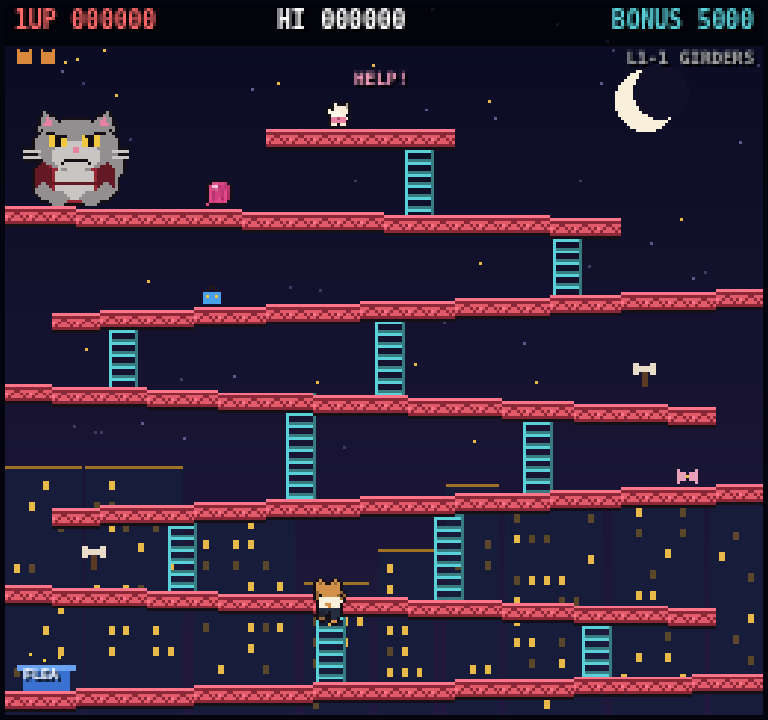
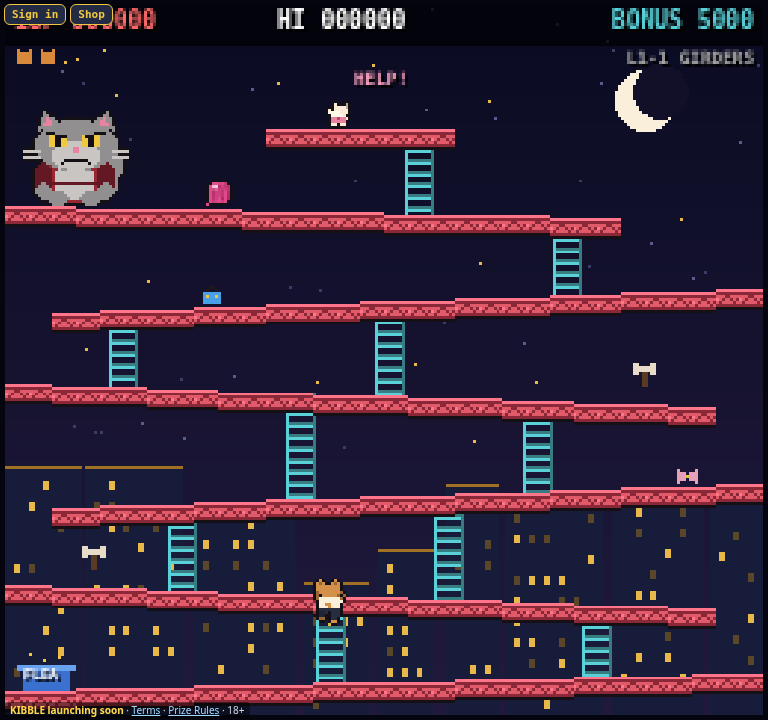
$KIBBLE: kibble-pay sign-in + shared shop (collars, rescue gear, van skins; launching soon until mint, demo only via ?demo=1), shared Shiba rescuer via /api/profile (?wallet= from Inu Verse), pups-saved scores to /api/game, Terms/Prize Rules footer; proofs

Changed region(s): [[0.0, 0.9778, 0.3438, 1.0], [0.0, 0.0, 0.1562, 0.0611]]

diff --git a/src/kibble.js b/src/kibble.js
@@ -1,0 +1,56 @@
+// $KIBBLE hooks for Inu Rescue. Real kibble-pay by default ("KIBBLE launching soon" until the mint is set);
+// fake balance + local inventory ONLY with ?demo=1. Cosmetics are visual only (no gameplay advantage).
+export const GAME = 'inu-rescue', API = 'https://kibble-pay.vercel.app';
+export const SOON_MSG = 'KIBBLE launching soon: purchases open at launch.';
+// Catalog source for kibble-pay `npm run catalog`. Prices are FEE-INCLUSIVE (player pays exactly this).
+export const COSMETICS = {
+  'collar-red':    { name: 'Red Rescue Collar',  price: 5,  kind: 'collar', color: '#e0383e' },
+  'collar-gold':   { name: 'Gold Hero Collar',   price: 15, kind: 'collar', color: '#f0c840' },
+  'collar-neon':   { name: 'Neon Night Collar',  price: 10, kind: 'collar', color: '#40f0c0' },
+  'gear-helmet':   { name: 'Fire Rescue Helmet', price: 20, kind: 'gear',   color: '#e05a2a' },
+  'gear-hivis':    { name: 'Hi-Vis Rescue Vest', price: 12, kind: 'gear',   color: '#d8f040' },
+  'gear-cape':     { name: 'Hero Cape',          price: 25, kind: 'gear',   color: '#6a3ad8' },
+  'van-classic':   { name: 'Classic Rescue Van skin', price: 30, kind: 'van', color: '#e05a6a' },
+  'van-gold':      { name: 'Gold Rescue Van skin',    price: 60, kind: 'van', color: '#f0c840' },
+  'van-midnight':  { name: 'Midnight Rescue Van skin', price: 40, kind: 'van', color: '#2a3a8a' },
+};
+const LS = typeof localStorage !== 'undefined' ? localStorage : { _: {}, getItem(k) { return this._[k] ?? null; }, setItem(k, v) { this._[k] = String(v); } };
+const load = (k, d) => { try { return JSON.parse(LS.getItem('ir.' + k)) ?? d; } catch { return d; } };
+const save = (k, v) => LS.setItem('ir.' + k, JSON.stringify(v));
+export const DEMO = typeof location !== 'undefined' && new URLSearchParams(location.search).get('demo') === '1';
+// pups saved first, in-game points break ties (capped so a pup always outranks points)
+export const runScore = (prog) => (prog.saved | 0) * 10000 + Math.min(9999, prog.score | 0);
+export const demoWallet = { // ?demo=1 only
+  balanceUi: () => String(load('demo.bal', 200)),
+  owned: (id) => load('demo.inv', []).includes(id),
+  async buy(id, price) { const bal = load('demo.bal', 200); if (bal < price) return { ok: false, error: 'Not enough demo KIBBLE' };
+    save('demo.bal', +(bal - price).toFixed(6)); const inv = load('demo.inv', []); if (!inv.includes(id)) inv.push(id); save('demo.inv', inv); return { ok: true }; },
+};
+export const K = { mode: DEMO ? 'demo' : 'loading', kp: null, glue: null, owned: {}, shiba: null, address: null };
+export const isOwned = (id) => (K.mode === 'demo' ? demoWallet.owned(id) : !!K.owned[id]);
+export const equipped = () => load('equip', {});
+export function toggleEquip(id) { const c = COSMETICS[id]; if (!c) return; const e = equipped(); e[c.kind] = e[c.kind] === id ? null : id; save('equip', e); }
+// active look: only items the wallet (or demo) actually owns
+export function look() { const e = equipped(), out = {}; for (const kind of ['collar', 'gear', 'van']) { const id = e[kind]; if (id && isOwned(id)) out[kind] = { id, ...COSMETICS[id] }; } out.shiba = K.shiba?.exists ? K.shiba : null; return out; }
+export function initKibble({ onChange = () => {} } = {}) { return (K.ready ||= bootKibble(onChange)); }
+async function bootKibble(onChange) {
+  try { K.glue = await import(API + '/inu-games.js'); const R = await K.glue.initKibble({ game: GAME }); Object.assign(K, { mode: R.mode, kp: R.kp, hint: R.walletHint }); K.glue.mountFooter(R.mode); }
+  catch (e) { K.mode = DEMO ? 'demo' : 'offline'; }
+  await refresh(); onChange(); return K;
+}
+export async function refresh() {
+  if (!K.glue) return;
+  K.address = K.kp?.session ? K.kp.address : null;
+  if (K.address) K.owned = await K.glue.ownedItems(K, GAME).catch(() => ({}));
+  const who = K.address || K.hint; if (who && K.mode !== 'demo') K.shiba = await K.glue.loadShiba(who).catch(() => null);
+}
+export async function signIn() { if (!K.glue) await K.ready; if (!K.glue) throw new Error('Wallet service offline'); await K.glue.signIn(K); await refresh(); return K.address; }
+export async function openShop(onChange) {
+  if (!K.glue) await K.ready; if (!K.glue) return null; const e = equipped(), eq = {}; for (const v of Object.values(e)) if (v) eq[v] = true;
+  return K.glue.openShop(K, { game: GAME, title: 'Rescue Gear Shop', demo: demoWallet, equipped: eq, onEquip: toggleEquip, onChange: async () => { await refresh(); onChange?.(); } });
+}
+// wallet-signed score: only when signed in (not demo), at least one pup saved
+export async function postRun(prog) {
+  if (K.mode === 'demo' || !K.kp?.session || !(prog.saved > 0)) return { ok: false, skipped: true };
+  try { return await K.kp.submitScore(GAME, runScore(prog), prog.timeMs); } catch (e) { return { ok: false, reason: e.message }; }
+}

diff --git a/src/render.js b/src/render.js
@@ -102,7 +102,11 @@ export function drawGame(c, g, opts = {}) {
   else if (p.state === 'climb') { hf = HERO.climb; hflip = Math.floor(p.anim * 6) % 2 === 1; }
   else if (p.state === 'air') hf = HERO.jump; else if (moving) hf = HERO.run[Math.floor(p.anim * 10) % 4];
   heroFrame = hf;
-  if (!(g.mode === 'intro' && Math.floor(g.timer * 8) % 2)) { if (!frame(c, 'hero_sheet', hf, 12, 16, p.x - 6, p.y - 16, hflip)) drawSprite(c, spr, p.x - 6, p.y - 16, flip); }
+  const lk = opts.look || {};
+  if (!(g.mode === 'intro' && Math.floor(g.timer * 8) % 2)) {
+    if (lk.shiba) lk.shiba.draw(c, p.x, p.y, { scale: 0.5, shadow: false, face: p.state === 'climb' ? 'up' : p.face < 0 ? 'left' : 'right', frame: moving || p.state === 'climb' ? Math.floor(p.anim * 10) % 4 : 0 });
+    else if (!frame(c, 'hero_sheet', hf, 12, 16, p.x - 6, p.y - 16, hflip)) drawSprite(c, spr, p.x - 6, p.y - 16, flip);
+    drawGear(c, lk, p.x, p.y, p.face, !!lk.shiba, p.state === 'climb'); }
   if (p.hammer > 0) { const up = Math.floor(t * 8) % 2 === 0; const z = hammerZone(p);
     if (!(p.hammer < 2 && Math.floor(t * 10) % 2)) {
       if (up) { R(c, p.x + p.face * 3, p.y - 22, 2, 9, '#5a3a22'); R(c, p.x + p.face * 3 - 3, p.y - 26, 8, 5, '#e8dcc8'); }
@@ -120,7 +124,20 @@ export function drawGame(c, g, opts = {}) {
   if (opts.paused) { R(c, 0, 0, W, H, '#0008'); R(c, 32, 84, W - 64, 56, '#000d'); text(c, 'PAUSED', W / 2, 92, '#fff', 'center', 16);
     text(c, opts.paused === 'blur' ? (opts.touch ? 'TAP OR PRESS ANY KEY TO RESUME' : 'CLICK OR PRESS ANY KEY TO RESUME') : 'P / ESC TO RESUME', W / 2, 118, '#f0c840', 'center', 7); }
 }
-export function drawTitle(c, t, lb, describeFn, fmt) {
+// cosmetic overlays (collar / gear) on the rescuer: pure pixels, no gameplay effect. Shared Shiba is 18x22, hero art 12x16.
+export function drawGear(c, lk, x, y, face = 1, shiba = false, back = false) {
+  const top = y - (shiba ? 20 : 16), neck = y - (shiba ? 11 : 10);
+  if (lk.gear?.id === 'gear-cape') R(c, x - face * (shiba ? 6 : 5) - 1, neck, 2, 8, lk.gear.color);
+  if (lk.gear?.id === 'gear-hivis') { R(c, x - 3, neck + 1, 6, 3, lk.gear.color); R(c, x - 3, neck + 2, 6, 1, '#c0c0c0'); }
+  if (lk.collar && !back) R(c, x - 3, neck, 6, 1, lk.collar.color);
+  if (lk.gear?.id === 'gear-helmet') { R(c, x - 4, top, 8, 2, lk.gear.color); R(c, x - 5, top + 2, 10, 1, lk.gear.color); }
+}
+export function drawVan(c, x, y, col) { // rescue van skin (title screen garage)
+  R(c, x, y - 14, 34, 12, col); R(c, x + 22, y - 20, 12, 7, col); R(c, x + 24, y - 18, 8, 4, '#bfe8ff');
+  R(c, x + 4, y - 11, 14, 2, '#fff'); R(c, x + 10, y - 13, 2, 6, '#fff'); R(c, x + 6, y - 2, 6, 4, '#222'); R(c, x + 24, y - 2, 6, 4, '#222');
+  R(c, x + 20, y - 22, 3, 2, Math.floor(Date.now() / 300) % 2 ? '#ff3a3a' : '#3a7aff');
+}
+export function drawTitle(c, t, lb, describeFn, fmt, lk = {}) {
   if (!frame(c, 'background', 0, W, H, 0, 0)) { R(c, 0, 0, W, H, '#0c0c1e');
   for (let i = 0; i < 40; i++) R(c, (i * 97) % W, (i * 53) % H, 1, 1, '#2a2a4a'); }
   const bob = Math.round(Math.sin(t * 3) * 2);
@@ -130,7 +147,11 @@ export function drawTitle(c, t, lb, describeFn, fmt) {
   R(c, 20, 104, 216, 7, '#e05a6a'); R(c, 20, 105, 216, 1, '#8a2838');
   drawCat(c, { x: 60, y: 104 }, Math.floor(t * 2) % 2, t, false);
   if (!frame(c, 'pup_sheet', Math.floor(t * 2) % 2, 9, 10, 110, 94)) drawSprite(c, SPR.pup, 110, 94);
-  if (!frame(c, 'hero_sheet', HERO.run[Math.floor(t * 8) % 4], 12, 16, 180, 88, true)) drawSprite(c, SPR.inuWalk1, 180, 88, true);
+  if (lk.shiba) lk.shiba.draw(c, 186, 104, { scale: 0.5, shadow: false, face: 'left', frame: Math.floor(t * 8) % 4 });
+  else if (!frame(c, 'hero_sheet', HERO.run[Math.floor(t * 8) % 4], 12, 16, 180, 88, true)) drawSprite(c, SPR.inuWalk1, 180, 88, true);
+  drawGear(c, lk, 186, 104, -1, !!lk.shiba);
+  if (lk.van) drawVan(c, 200, 104, lk.van.color);
+  if (lk.shiba) text(c, 'RESCUER: ' + String(lk.shiba.profile?.name || 'SHIBA').toUpperCase().slice(0, 12), W / 2, 70, '#7ae07a', 'center', 7);
   drawHazard(c, { kind: 'yarn', x: 140 + (t * 30) % 30, y: 104, r: 5, rot: t * 8 });
   text(c, 'A grumpy cat stole the pup!', W / 2, 118, '#ddd', 'center', 7);
   text(c, 'TOP RESCUERS', W / 2, 132, '#5ad0d8', 'center');

diff --git a/src/main.js b/src/main.js
@@ -1,6 +1,7 @@
 import { createGame, step, progress, W, H } from './engine.js';
 import { drawGame, drawTitle, text } from './render.js';
 import { initAudio, play, setMuted, isMuted } from './audio.js';
+import * as KB from './kibble.js';
 import { loadLB, saveLB, addEntry, makeEntry, qualifiesLB, describe, formatTime } from './leaderboard.js';
 
 const cv = document.getElementById('screen'), c = cv.getContext('2d');
@@ -91,9 +92,26 @@ function entryKey(code) {
     app.lastEntry = e; app.entry = null; app.scene = 'over'; app.overT = 0;
   }
 }
+// ---- $KIBBLE bar (wallet sign-in + shared shop). DOM, outside the canvas; phone-landscape safe (top-left corner) ----
+const kbar = document.getElementById('kbar'), kwal = document.getElementById('k-wallet'), kmsg = document.getElementById('k-msg');
+let lookNow = {};
+const relook = () => { lookNow = KB.look(); app.look = lookNow; };
+function kbarUi(msg) {
+  const m = KB.K.mode; document.documentElement.dataset.kibble = m;
+  kwal.textContent = m === 'demo' ? 'DEMO' : KB.K.address ? KB.K.address.slice(0, 4) + '…' + KB.K.address.slice(-4) : 'Sign in';
+  if (msg !== undefined) { kmsg.textContent = msg; clearTimeout(kbarUi.t); kbarUi.t = setTimeout(() => (kmsg.textContent = ''), 5000); }
+  relook();
+}
+kwal.onclick = async () => { if (KB.K.mode === 'demo') return kbarUi('Demo mode: fake KIBBLE. Remove ?demo=1 to use Phantom.');
+  try { await KB.signIn(); kbarUi('Signed in: runs that save a pup post to the prize board.'); } catch (e) { kbarUi(e.message || 'Sign-in failed'); } };
+document.getElementById('k-shop').onclick = () => { app.paused = app.scene === 'game' ? true : app.paused; KB.openShop(() => kbarUi()); };
+for (const t of ['pointerdown', 'touchstart']) kbar.addEventListener(t, (e) => e.stopPropagation(), { passive: true });
+kbar.addEventListener('click', () => setTimeout(() => document.activeElement?.blur?.(), 0));
+KB.initKibble({ onChange: () => kbarUi() }); kbarUi();
+async function postRun(prog) { const r = await KB.postRun(prog); app.posted = r.skipped ? null : r.ok ? `POSTED ${KB.runScore(prog)} TO PRIZE BOARD` : 'SCORE NOT POSTED: ' + String(r.reason || r.error || '').slice(0, 28).toUpperCase(); }
 function newGame() { app.g = createGame({ seed: (Date.now() & 0xffff) || 7, stage: startStage }); app.scene = 'game'; app.paused = false; }
 function endGame() {
-  const prog = progress(app.g); app.lastProg = prog;
+  const prog = progress(app.g); app.lastProg = prog; app.posted = null; postRun(prog);
   if (qualifiesLB(lb, prog)) { app.scene = 'entry'; app.entry = { ch: [8, 13, 20].concat(Array(NAME_MAX - 3).fill(BLANK)), i: 0, prog }; }
   else { app.scene = 'over'; app.overT = 0; app.lastEntry = null; }
 }
@@ -115,13 +133,14 @@ function frame(now) {
 }
 function render() {
   const hi = lb.reduce((m, e) => Math.max(m, e.score), 0);
-  if (app.scene === 'title') return drawTitle(c, app.t, lb, describe, formatTime);
-  drawGame(c, app.g, { hi, paused: app.paused, touch: !root.classList.contains('notouch') });
+  if (app.scene === 'title') return drawTitle(c, app.t, lb, describe, formatTime, lookNow);
+  drawGame(c, app.g, { hi, paused: app.paused, touch: !root.classList.contains('notouch'), look: lookNow });
   if (app.scene === 'entry' || app.scene === 'over') {
     c.fillStyle = '#000d'; c.fillRect(16, 48, W - 32, 150);
     text(c, 'GAME OVER', W / 2, 54, '#e05a6a', 'center', 16);
     const pr = app.lastProg; text(c, describe(pr), W / 2, 76, '#f0c840', 'center', 7);
-    text(c, `score ${pr.score}`, W / 2, 86, '#ccc', 'center', 7);
+    text(c, `score ${pr.score}  pups saved ${pr.saved || 0}`, W / 2, 86, '#ccc', 'center', 7);
+    if (app.posted) text(c, app.posted, W / 2, 93, '#7ae07a', 'center', 6);
     if (app.scene === 'entry') {
       text(c, 'NEW BEST RUN! ENTER INITIALS', W / 2, 102, '#7ae07a', 'center', 7);
       app.entry.ch.forEach((ch, i) => { const x = W / 2 - 3.5 * 22 + i * 22; text(c, ch === BLANK ? '_' : LET[ch], x, 116, i === app.entry.i ? '#fff' : '#888', 'center', 16);

diff --git a/index.html b/index.html
@@ -1,10 +1,12 @@
 <!doctype html><html lang="en"><head><meta charset="utf-8">
 <meta name="viewport" content="width=device-width,initial-scale=1,maximum-scale=1,user-scalable=no,viewport-fit=cover">
 <title>Inu Rescue</title><link rel="icon" type="image/png" href="favicon.png"><link rel="stylesheet" href="style.css"></head><body>
+<div id="kbar"><button id="k-wallet">Sign in</button><button id="k-shop">Shop</button><span id="k-msg"></span></div>
 <main><canvas id="screen" width="256" height="240" aria-label="Inu Rescue game"></canvas>
 <div id="pad" aria-label="Touch controls">
   <div class="dpad"><div data-k="up" class="btn ar up" role="button" aria-label="Up"></div><div data-k="left" class="btn ar left" role="button" aria-label="Left"></div><div data-k="right" class="btn ar right" role="button" aria-label="Right"></div><div data-k="down" class="btn ar down" role="button" aria-label="Down"></div></div>
   <div class="mid"><div data-k="start" class="btn sm" role="button" aria-label="Start" data-t="START"></div><div data-k="pause" class="btn sm" role="button" aria-label="Pause" data-t="PAUSE"></div></div>
   <div class="act"><div data-k="jump" class="btn big" role="button" aria-label="Jump" data-t="JUMP"></div></div>
 </div></main>
+<script type="importmap">{"imports":{"@solana/web3.js":"https://esm.sh/@solana/web3.js@1.98.4"}}</script>
 <script type="module" src="src/main.js"></script></body></html>

diff --git a/style.css b/style.css
@@ -25,3 +25,9 @@ canvas{image-rendering:pixelated;width:min(100vw,calc((100vh - 10px) * 256 / 240
   .mid{position:fixed;top:max(10px,env(safe-area-inset-top));right:max(10px,env(safe-area-inset-right));flex-direction:column}}
 
 html.notouch #pad{display:none!important}html.notouch canvas{width:min(100vw,calc((100vh - 10px) * 256 / 240))!important;height:auto!important;max-width:none!important}html.notouch main{flex-direction:column!important;padding:0!important}
+
+/* $KIBBLE bar + legal footer: small, top-left, never over the game pad */
+#kbar{position:fixed;top:max(4px,env(safe-area-inset-top));left:max(4px,env(safe-area-inset-left));z-index:50;display:flex;gap:4px;align-items:center;font:11px monospace;pointer-events:auto}
+#kbar button{background:#222a44;color:#f0c840;border:1px solid #f0c840;border-radius:6px;padding:3px 7px;font:bold 11px monospace;cursor:pointer;touch-action:manipulation}
+#k-msg{color:#7ae07a;max-width:40vw;white-space:nowrap;overflow:hidden;text-overflow:ellipsis}
+@media (orientation:landscape) and (max-height:540px) and ((pointer:coarse) or (hover:none)){#inu-legal{bottom:auto!important;top:calc(max(4px,env(safe-area-inset-top)) + 26px);max-width:150px!important;white-space:normal!important}#kbar{flex-direction:row}}

diff --git a/src/engine.js b/src/engine.js
@@ -289,11 +289,11 @@ function collisions(g) {
 }
 export function clearStage(g) {
   if (g.mode !== 'play') return;
-  addScore(g, g.bonus, g.player.x, g.player.y - 24); g.height = 100; g.mode = 'clear'; g.timer = 2.5; g.cat.fallen = !!g.S.rivets.length; g.events.push('clear');
+  addScore(g, g.bonus, g.player.x, g.player.y - 24); g.saved = (g.saved || 0) + 1; g.height = 100; g.mode = 'clear'; g.timer = 2.5; g.cat.fallen = !!g.S.rivets.length; g.events.push('clear');
 }
 
 export function progress(g) {
-  return { stage: g.loop * STAGES.length + g.stage + 1, height: Math.floor(g.height), timeMs: Math.round(g.runTime), score: g.score };
+  return { stage: g.loop * STAGES.length + g.stage + 1, height: Math.floor(g.height), timeMs: Math.round(g.runTime), score: g.score, saved: g.saved || 0 };
 }
 function trackHeight(g) {
   const sy = surfaceY(g.plats[g.S.start.p], g.S.start.x), gy = g.pup.y;
